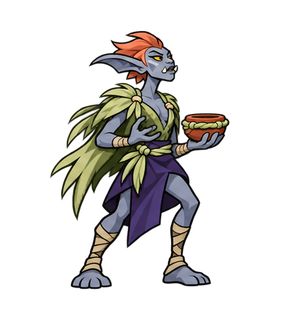
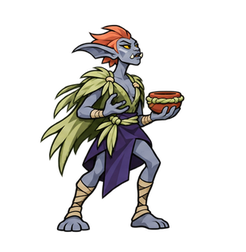
Smooth the swamp shaman ritual with six in-betweens

diff --git a/design/Visuels_Boutique_Chaman_Marais.md b/design/Visuels_Boutique_Chaman_Marais.md
@@ -16,10 +16,12 @@ Dessin réalisé avec le générateur intégré. Le Chaman orc a servi de réfé
 
 ## Rituel du feu follet
 
-Une main soutient le bol. L’autre guide le feu follet au-dessus du rebord, puis le libère à 0,40 s. L’animation reprend la volute turquoise du portrait et la conserve pour le projectile. Le bol revient en garde, avec un léger mouvement du mantelet. Huit dessins entiers sur 22 images et 0,88 s. Pieds calés et hauteur de 64 px comme le sprite fixe actuel.
+Une main soutient le bol. L’autre guide le feu follet au-dessus du rebord, puis le libère à 0,40 s. L’animation reprend la volute turquoise du portrait et la conserve pour le projectile. Le bol revient en garde, avec un léger mouvement du mantelet. Le porteur a validé le geste, avec davantage d’intermédiaires pour la fluidité. Six dessins s’ajoutent entre les huit poses d’origine, pour 14 dessins distincts sur 33 images et 0,88 s. Le lâcher reste à 0,40 s. Pieds calés et hauteur de 64 px comme le sprite fixe actuel.
 
-[Essai en jeu](essais/gestes_combat/chaman_marais/Chaman_marais_en_jeu.gif) · [Planche des huit poses](essais/gestes_combat/chaman_marais/Planche_chaman_marais.png)
+[Essai en jeu](essais/gestes_combat/chaman_marais/Chaman_marais_14_poses_en_jeu.gif) · [Planche des 14 poses](essais/gestes_combat/chaman_marais/Quatorze_poses_chaman_marais.png)
 
 Le fichier lacher.json donne le repère depuis le pied, le pivot et l’échelle du feu follet. Dans l’essai, la volute file en ligne droite depuis sa dernière position dans la planche. La malédiction et le ralentissement conservent les repères de combat existants. Dix tirs vérifiés sur la mission 94 v0.235, gauche et droite, ×1 et ×2 avec pause. 49 dossiers valides, 190 contrôles d’animation et 77 des effets réussis. Une seule planche testée dans les deux sens, avis visuel du porteur attendu.
 
 Consignes au générateur intégré. Garder le bol en terre cuite sur la même main, la silhouette trolle et le mantelet de roseaux. Animer l’autre main autour du bol puis vers la cible, avec les pieds ancrés, la crête corail et la palette constantes. La volute turquoise est assemblée à part sur les images qui précèdent le lâcher.
+
+Consignes au générateur intégré pour les intermédiaires. Même Chamane avec les pieds calés et la paume au contact du bol. Ajouter les positions entre garde et recueil, recueil et formation, formation et feu follet formé, lâcher et accompagnement, accompagnement et abaissement, abaissement et retour. Les cases sont rééchantillonnées à 246 × 252 px pour garder la planche sous 8 192 px de large. Même taille sur le plateau et même repère de lâcher.

diff --git a/PASSATION.md b/PASSATION.md
@@ -4,7 +4,7 @@ Mettre ce fichier à jour à chaque fin de mission ou changement d'agent (voir `
 
 ## État au 14 novembre 2026 — Codex
 
-**21 novembre — Chaman des marais, type 33.** Essai en huit dessins entiers, formation et départ du même feu follet à 0,40 s. Dix tirs en mission 94 v0.235 dans les deux sens à ×1 et ×2 avec pause. Ralentissement et malédiction vérifiés sur la cible. 49 dossiers valides, 190 contrôles d’animation et 77 des effets réussis. [Essai et repères](design/Visuels_Boutique_Chaman_Marais.md#rituel-du-feu-follet). Avis du porteur.
+**21 novembre — Chaman des marais, type 33.** Geste validé. Six dessins intermédiaires ajoutés à la demande du porteur. 14 poses distinctes sur 33 images, formation et départ du même feu follet à 0,40 s. Dix tirs en mission 94 v0.235 dans les deux sens à ×1 et ×2 avec pause. Ralentissement et malédiction vérifiés sur la cible. 49 dossiers valides, 190 contrôles d’animation et 77 des effets réussis. [Essai et repères](design/Visuels_Boutique_Chaman_Marais.md#rituel-du-feu-follet). Avis du porteur.
 
 **21 novembre — Prêtre guerrier, type 32.** Essai du tir doré en neuf poses, départ à 0,32 s et livre calé à la hanche. Six tirs en mission 94 sur copie v0.234, à ×1 et ×2 avec pause. Bénédiction de +40 % vérifiée sur l’archer à portée. Validateur à zéro problème sur 48 dossiers, 189 contrôles d’animation et 77 des effets réussis. Geste de référence validé. Deux visées supplémentaires ajoutées et contrôlées sur 18 tirs en mission 94 v0.235. La bénédiction reste vérifiée à +40 %. [Captures des trois visées](design/Visuels_Boutique_Pretre_Guerrier.md#trois-inclinaisons-de-tir). Le porteur a donné son feu vert pour poursuivre. Lot c2d19e8 prêt à intégrer.
 

diff --git a/TODO_VISUELS.md b/TODO_VISUELS.md
@@ -86,7 +86,7 @@ Format : une case par tâche, avec le contexte (mission, unité, écran), ce qui
 
 - [x] **Fantassin humain, marche** — trois planches de 20 images, quatre diagonales vérifiées à ×1 et ×2 sur Les Coulées Figées. À juger en jeu par le porteur. [Aperçu](design/Visuel_Fantassin_Marche.md).
 
-- [ ] **Chaman des marais, attaque** — formation du feu follet dans le bol et départ à 0,40 s. [Essai en jeu](design/Visuels_Boutique_Chaman_Marais.md#rituel-du-feu-follet). Avis du porteur sur le geste.
+- [ ] **Chaman des marais, attaque** — formation du feu follet dans le bol et départ à 0,40 s. [Essai en jeu](design/Visuels_Boutique_Chaman_Marais.md#rituel-du-feu-follet). Geste validé, avis sur les six intermédiaires.
 - [x] **Prêtre guerrier, attaque** — éclat doré à 0,32 s, trois angles. [Captures en jeu](design/Visuels_Boutique_Pretre_Guerrier.md#trois-inclinaisons-de-tir). Lot c2d19e8 prêt à intégrer.
 - [x] **Éclaireur-observateur, signal** — fanion levé et cible désignée à 0,32 s. Pointage maintenu 0,288 s. Lot 88784cf validé par le porteur, à intégrer. [Contrôles et capture](design/Visuels_Boutique_Observateur.md#signal-au-fanion).
 - [x] **Mage de givre, attaque** — trois inclinaisons, cristal synchronisé à 0,36 s, départ par pose. [Captures](design/Visuels_Boutique_Mage_Givre.md#trois-inclinaisons-de-tir). Lot 43b95a7 prêt à intégrer.
